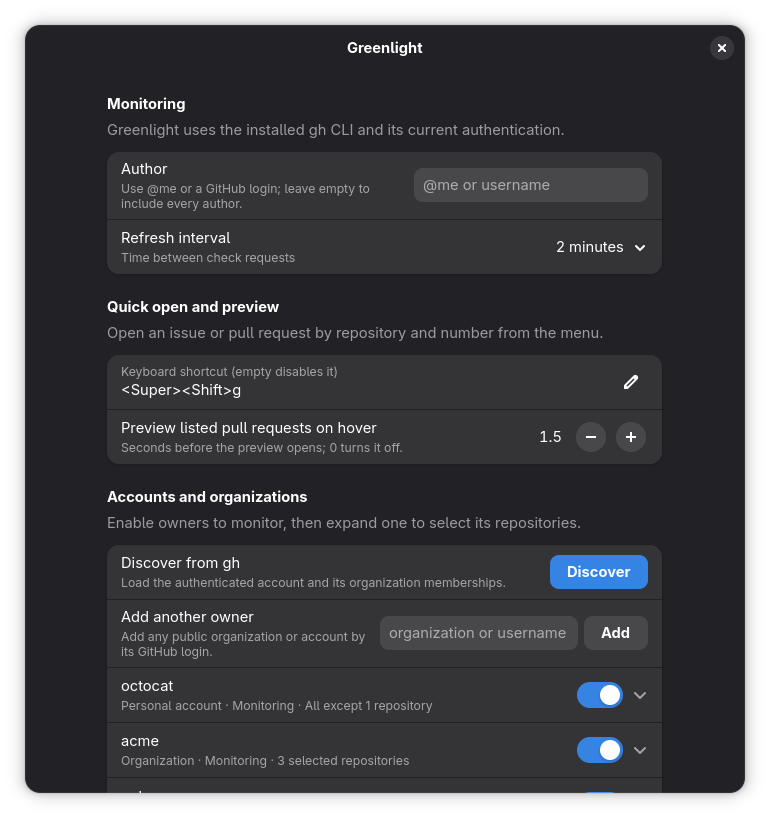
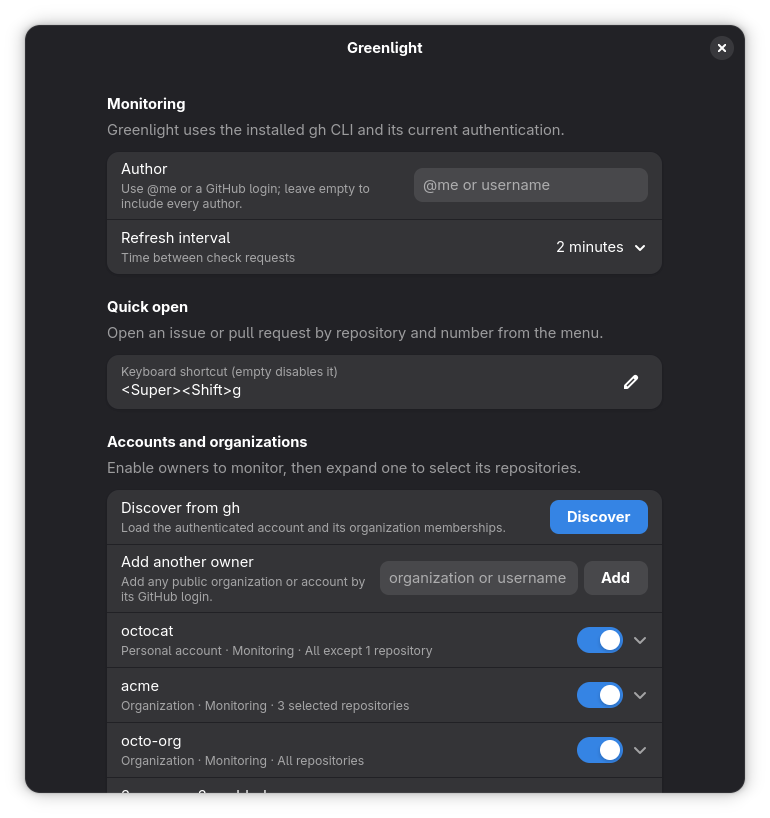
feat: open list previews on click instead of hover (#22)

diff --git a/src/extension.js b/src/extension.js
@@ -714,6 +714,9 @@ export default class GreenlightExtension extends Extension {
             vscrollbar_policy: St.PolicyType.AUTOMATIC,
             overlay_scrollbars: true,
         });
+        // The overlay scrollbar is drawn over the last pixels of the rows, next to their open
+        // icon; this gutter keeps it clear of the rows and lines them up with the quick open field.
+        this._contentSection.box.style = 'padding-right: 12px;';
         this._contentScrollView.set_child(this._contentSection.box);
         this._contentScrollView._delegate = this._contentSection;
         this._contentSection.actor = this._contentScrollView;
@@ -730,6 +733,8 @@ export default class GreenlightExtension extends Extension {
         this._previewCancellable = null;
         this._previewState = null;
         this._previewItem = null;
+        // Monotonic time before which a list preview must not scroll into view.
+        this._previewRevealTime = 0;
         this._previewCache = new Map();
         this._pullRequestItems = [];
         this._lookupSourceId = 0;
@@ -1073,13 +1078,44 @@ export default class GreenlightExtension extends Extension {
                 this._previewItem = null;
         });
         if (inList) {
+            // The preview's scroll view takes every wheel event, even at its ends or with
+            // nothing to scroll, which traps the list behind it: hand those to the list.
+            scrollView.connect('scroll-event', (_actor, event) => {
+                const direction = event.get_scroll_direction();
+                const delta = direction === Clutter.ScrollDirection.SMOOTH
+                    ? event.get_scroll_delta()[1]
+                    : {[Clutter.ScrollDirection.UP]: -1, [Clutter.ScrollDirection.DOWN]: 1}[direction];
+                if (!delta)
+                    return Clutter.EVENT_PROPAGATE;
+
+                const {value, lower, upper, page_size: pageSize} = scrollView.vadjustment;
+                if (delta < 0 ? value > lower : value < upper - pageSize)
+                    return Clutter.EVENT_PROPAGATE;
+                this._contentScrollView.emit('scroll-event', event);
+                return Clutter.EVENT_STOP;
+            });
             // Scroll once the preview has a size. Revealing it lifts its row by at most the
-            // preview height, so the pointer stays on the row or on its preview.
+            // preview height, so the pointer stays on the row or on its preview. After a click,
+            // wait out the double-click time so a second click still lands on the row.
+            let revealSourceId = 0;
             const allocationId = item.connect('notify::allocation', () => {
                 if (item.height === 0)
                     return;
                 item.disconnect(allocationId);
-                ensureActorVisibleInScrollView(this._contentScrollView, item);
+                const waitMs = Math.ceil((this._previewRevealTime - GLib.get_monotonic_time()) / 1000);
+                if (waitMs <= 0) {
+                    ensureActorVisibleInScrollView(this._contentScrollView, item);
+                    return;
+                }
+                revealSourceId = GLib.timeout_add(GLib.PRIORITY_DEFAULT, waitMs, () => {
+                    revealSourceId = 0;
+                    ensureActorVisibleInScrollView(this._contentScrollView, item);
+                    return GLib.SOURCE_REMOVE;
+                });
+            });
+            item.connect('destroy', () => {
+                if (revealSourceId)
+                    GLib.Source.remove(revealSourceId);
             });
         }
 
@@ -1408,7 +1444,7 @@ export default class GreenlightExtension extends Extension {
             }
         }
 
-        // A refresh rebuilds the rows: keep a hover preview under its pull request if listed.
+        // A refresh rebuilds the rows: keep an open preview under its pull request if listed.
         if (this._previewState?.source === 'list') {
             if (this._pullRequestItems.some(row => row._previewKey === this._previewState.key))
                 this._renderPreview();
@@ -1521,6 +1557,27 @@ export default class GreenlightExtension extends Extension {
         }
         titleLine.add_child(title);
         titleLine.add_child(checkBadge);
+
+        const openPullRequest = () => {
+            openUri(pr.url);
+            this._indicator.menu.close();
+        };
+        const openButton = new St.Button({
+            child: new St.Icon({
+                gicon: Gio.FileIcon.new(this.dir.get_child('greenlight-open-symbolic.svg')),
+                icon_size: 14,
+            }),
+            y_align: Clutter.ActorAlign.CENTER,
+            track_hover: true,
+            accessible_name: 'Open pull request ' + pr.number + ' on GitHub',
+        });
+        // The Shell theme has no hover style for a bare button, so the hover tint is inline.
+        const openButtonStyle = hover => 'padding: 3px 5px; border-radius: 6px; ' +
+            'background-color: rgba(127, 127, 127, ' + (hover ? '0.3' : '0') + ');';
+        openButton.style = openButtonStyle(false);
+        openButton.connect('notify::hover', () => (openButton.style = openButtonStyle(openButton.hover)));
+        openButton.connect('clicked', openPullRequest);
+        titleLine.add_child(openButton);
         content.add_child(titleLine);
         content.add_child(metadataLine);
         item.add_child(content);
@@ -1535,15 +1592,38 @@ export default class GreenlightExtension extends Extension {
         };
         item._previewKey = previewKey(suggestion);
         this._pullRequestItems.push(item);
-        item.connect('key-focus-in', () => {
-            ensureActorVisibleInScrollView(this._contentScrollView, item);
-            // Pointer hover moves key focus too, so this covers hovering and arrow keys.
-            const delay = this._settings.get_int('hover-preview-delay');
-            if (delay > 0)
-                this._schedulePreviewTarget(suggestion, 'list', delay);
+        item.connect('key-focus-in', () => ensureActorVisibleInScrollView(this._contentScrollView, item));
+        // Hover covers the row's children, so the open icon gets the pointer cursor too.
+        item.connect('notify::hover', () => this._setPointerCursor(item.hover));
+        item.connect('destroy', () => {
+            if (item.hover)
+                this._setPointerCursor(false);
         });
-        item.connect('key-focus-out', () => this._clearPreviewFocusTimer());
-        item.connect('activate', () => openUri(pr.url));
+        // Every activate signal closes the menu, so the row handles its own: a click or Space
+        // toggles the preview and keeps the menu open; the open button, a double click, Enter,
+        // or a click on the preview opens the pull request.
+        let lastClickTime = 0;
+        item.activate = event => {
+            let open;
+            this._previewRevealTime = 0;
+            if (event?.type() === Clutter.EventType.KEY_PRESS) {
+                open = event.get_key_symbol() !== Clutter.KEY_space;
+            } else {
+                const now = GLib.get_monotonic_time();
+                const doubleClickUs = Clutter.Settings.get_default().double_click_time * 1000;
+                open = now - lastClickTime <= doubleClickUs;
+                lastClickTime = open ? 0 : now;
+                this._previewRevealTime = now + doubleClickUs;
+            }
+
+            if (open) {
+                openPullRequest();
+            } else {
+                const shown = this._previewState?.source === 'list' &&
+                    this._previewState.key === item._previewKey;
+                this._setPreviewTarget(shown ? null : suggestion, 'list');
+            }
+        };
         return item;
     }
 }

diff --git a/src/prefs.js b/src/prefs.js
@@ -143,7 +143,7 @@ export default class GreenlightPreferences extends ExtensionPreferences {
         intervalRow.set_selected(currentInterval >= 0 ? currentInterval : 2);
 
         const quickOpenGroup = new Adw.PreferencesGroup({
-            title: 'Quick open and preview',
+            title: 'Quick open',
             description: 'Open an issue or pull request by repository and number from the menu.',
         });
         const shortcutRow = new Adw.EntryRow({
@@ -152,12 +152,6 @@ export default class GreenlightPreferences extends ExtensionPreferences {
         });
         shortcutRow.connect('changed', () => shortcutRow.remove_css_class('error'));
         quickOpenGroup.add(shortcutRow);
-        const hoverPreviewRow = Adw.SpinRow.new_with_range(0, 10, 0.5);
-        hoverPreviewRow.set_title('Preview listed pull requests on hover');
-        hoverPreviewRow.set_subtitle('Seconds before the preview opens; 0 turns it off.');
-        hoverPreviewRow.set_digits(1);
-        hoverPreviewRow.set_value(settings.get_int('hover-preview-delay') / 1000);
-        quickOpenGroup.add(hoverPreviewRow);
 
         const ownersGroup = new Adw.PreferencesGroup({
             title: 'Accounts and organizations',
@@ -604,7 +598,7 @@ export default class GreenlightPreferences extends ExtensionPreferences {
         saveButton.add_css_class('suggested-action');
         const saveRow = new Adw.ActionRow({
             title: 'Save preferences',
-            subtitle: 'Apply owner, repository, author, refresh, shortcut, and preview settings together.',
+            subtitle: 'Apply owner, repository, author, refresh, and shortcut settings together.',
         });
         saveRow.add_suffix(saveButton);
         saveRow.set_activatable_widget(saveButton);
@@ -641,7 +635,6 @@ export default class GreenlightPreferences extends ExtensionPreferences {
             const selectedInterval = intervalRow.get_selected();
             if (selectedInterval < INTERVALS.length)
                 settings.set_int('refresh-interval', INTERVALS[selectedInterval]);
-            settings.set_int('hover-preview-delay', Math.round(hoverPreviewRow.get_value() * 1000));
             settings.set_strv('quick-open-shortcut', shortcutText
                 ? [Gtk.accelerator_name(shortcutKey, shortcutModifiers)]
                 : []);

diff --git a/README.md b/README.md
@@ -63,14 +63,14 @@ gnome-extensions enable greenlight@cr0ck.github.io
 The panel indicator shows how many pull requests Greenlight is monitoring, up to 30. Open its menu to review their statuses and click one to open it in your browser. Pull requests are sorted by most recently updated.
 
 <p align="center">
-  <img src="docs/screenshots/preferences.png" alt="Greenlight preferences: author, refresh interval, quick open shortcut, hover preview delay, and owners" width="70%">
+  <img src="docs/screenshots/preferences.png" alt="Greenlight preferences: author, refresh interval, quick open shortcut, and owners" width="70%">
 </p>
 
 In Preferences, use **Discover** to load the account and organizations available to the active `gh` authentication. You can also add any public organization or account by its login. Expand an owner and pick **All**, **All except…**, or **Only…** under **Repositories**. **All except…** keeps new repositories monitored and lists the loaded repositories to turn off the ones to skip; **Only…** monitors just the repositories turned on. A switch on always means monitored, so changing between the two keeps the current choice and only changes what happens to new repositories. Each owner keeps its own repository selection. The **Save preferences** button applies owners, repositories, author, and refresh interval together. The **About** group at the bottom shows the installed version and links to this repository. Before owner filters are configured, the extension searches all repositories visible to `gh`; after configuration, only enabled owners and their selected repositories are included.
 
-The menu groups pull requests under their account or organization. Each row puts the number, labels, title, and CI badge on the first line, then the repository, author, review state, and any failure or pending counts on the second. The panel icon remains a neutral pull request symbol.
+The menu groups pull requests under their account or organization. Each row puts the number, labels, title, CI badge, and an open icon on the first line, then the repository, author, review state, and any failure or pending counts on the second. The panel icon remains a neutral pull request symbol.
 
-Use the quick open field under **Refresh now** to open an issue or pull request by number. Type part of a repository name and the number, such as `plat 42` or `plat#42`, then press Enter. `#42` alone lists only the watched repositories where #42 exists, with its title, `owner/repo#42` works for any repository, and a pasted GitHub URL opens as is. Suggestions come from repositories selected in Preferences, repositories of the pull requests in the menu, and recently opened repositories. Once a number is typed, a panel previews the highlighted suggestion: state, author, labels, branches, a CI bar with failed check names, and the description rendered as GitHub-flavored Markdown. The preview scrolls; click it to open the issue or pull request, or click a link inside it to open that link. It uses one `gh api graphql` request, cached for a minute. Super+Shift+G opens the menu with the field focused; change or clear the shortcut in Preferences. Resting on a listed pull request for 1.5 seconds opens the same preview under it; Preferences sets the delay, and 0 turns it off.
+Use the quick open field under **Refresh now** to open an issue or pull request by number. Type part of a repository name and the number, such as `plat 42` or `plat#42`, then press Enter. `#42` alone lists only the watched repositories where #42 exists, with its title, `owner/repo#42` works for any repository, and a pasted GitHub URL opens as is. Suggestions come from repositories selected in Preferences, repositories of the pull requests in the menu, and recently opened repositories. Once a number is typed, a panel previews the highlighted suggestion: state, author, labels, branches, a CI bar with failed check names, and the description rendered as GitHub-flavored Markdown. The preview scrolls; click it to open the issue or pull request, or click a link inside it to open that link. It uses one `gh api graphql` request, cached for a minute. Super+Shift+G opens the menu with the field focused; change or clear the shortcut in Preferences. Click a listed pull request to open the same preview under it, and click it again to close it; click the open icon at the end of the row, double-click the row, or click its preview to open the pull request. With the keyboard, Space toggles the preview and Enter opens the pull request. Scrolling over the preview scrolls its description first, then the list.
 
 Each pull request row shows its labels in their GitHub colors, its author, Draft or Ready for review status, passed checks out of total checks, and the number of failures, pending checks, skipped checks, and cancellations.
 

diff --git a/docs/specs/v1.2.md b/docs/specs/v1.2.md
@@ -55,3 +55,17 @@ Watch every repository of an owner except a few, without listing dozens of repos
   shorten a full page, the search runs again with a larger limit, up to 1000, until the owner
   yields its share of the 30 most recent pull requests; group and panel counts follow the
   filtered list.
+
+## Pull request previews in the list
+
+- A click on a pull request row toggles its preview under the row and keeps the menu open; only
+  one preview exists at a time. Hovering or focusing a row no longer opens anything.
+- An open icon at the end of the row's first line, a double click on the row, or a click on its
+  preview opens the pull request and closes the menu. With the keyboard, Space toggles the
+  preview and Enter opens the pull request.
+- After a click, the list waits for the double-click time before scrolling the preview into
+  view, so the row stays under the pointer for a second click.
+- The wheel over a preview scrolls its description; at either end, or when nothing overflows, it
+  scrolls the list instead, so a preview never traps the list scroll.
+- The `hover-preview-delay` setting and its **Preview listed pull requests on hover** row are
+  gone; the **Quick open and preview** group is now **Quick open**.
